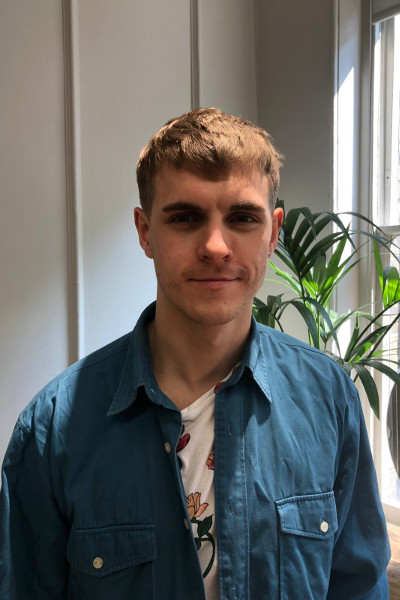
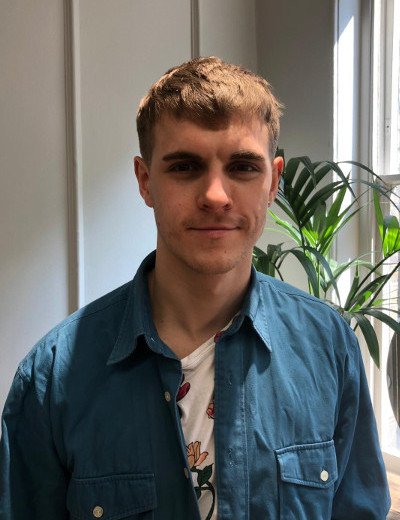
Added slider images and profile pics, and added ability to click-through the latter

diff --git a/index.html b/index.html
@@ -54,14 +54,20 @@
         <button class="fas fa-arrow-alt-circle-left slider__button slider__button--left"></button>
         <ul class="slider__list">
           <li class="slider__list-item">
-            <img src="img/img1.jpg" alt="At Land's End" class="slider__img slider__img--active">
+            <img src="img/img1.jpg" title="On a bench at Land's End" alt="On a bench at Land's End" class="slider__img slider__img--active">
           </li>
           <li class="slider__list-item">
-            <img hidden src="img/img2.jpg" alt="Meeting folks at the Centre for Environmental Concerns in Manila" class="slider__img">
+            <img hidden src="img/img2.jpg" title="Meeting folks at the Centre for Environmental Concerns in Manila" alt="Meeting folks at the Centre for Environmental Concerns in Manila" class="slider__img">
           </li>
           <li class="slider__list-item">
-            <img hidden src="img/img3.jpg" alt="By the canal in Venice" class="slider__img">
+            <img hidden src="img/img3.jpg" title="On a boat with my partner" alt="On a boat with my partner" class="slider__img">
           </li>
+					<li class="slider__list-item">
+						<img hidden src="img/img4.jpg" title="Mustonia, final fortress of the 90s anti-roads movement in Leyton" alt="Mustonia, final fortress of the 90s anti-roads movement in Leyton" class="slider__img">
+					</li>
+					<li class="slider__list-item">
+						<img hidden src="img/img5.jpg" title="Up Primrose Hill after taking the roads with Critical Mass" alt="Up Primrose Hill after taking the roads with Critical Mass" class="slider__img">
+					</li>
         </ul>
         <button class="fas fa-arrow-alt-circle-right slider__button slider__button--right"></button>
       </div>
@@ -69,6 +75,8 @@
         <button class="slider__nav-btn slider__nav-btn--active"></button>
         <button class="slider__nav-btn"></button>
         <button class="slider__nav-btn"></button>
+				<button class="slider__nav-btn"></button>
+				<button class="slider__nav-btn"></button>
       </div>
     </div>
 
@@ -84,21 +92,22 @@
 					<li>I like to read speculative sci-fi, play the drums, go to dance parties and tinker with tech</li>
 					<li>I've been involved in left wing political organising for many years and believe <em>another world is possible</em></li>
 				</ol>
-				<p class="main__para">So that's a quick rundown. If you'd like to know more about what I do with my time, just click a button!</p>
+				<p class="main__para">So that's a quick rundown. If you'd like to know more about what I've been up to recently, just click a button!</p>
 				<p class="main__para">Or, skip straight to the next section to <a class="link" href="#motivation">find out why I'm applying</a>.</p>
 				<div class="main__button-box">
 					<button class="main__button">Infosecurity Work</button>
 					<button class="main__button">Organising</button>
-					<button class="main__button">Fast Forward</button>
+					<button class="main__button">Build Camp</button>
 					<button class="main__button">Legal Support</button>
 					<button class="main__button">Climbing</button>
 				</div>
 			</div>
 			<div class="main__img-box">
-				<img src="img/profile2.jpg" alt="My face" class="main__img"> <!-- this img is the second column of the CSS grid -->
+				<img src="img/profile1.jpg" title="my face" alt="my face" class="main__img"> <!-- this img is the second column of the CSS grid -->
 			</div>
 		</main>
 
+		<!-- why I want to do the Founders &amp Coders course -->
 		<article id="motivation" class="article">
 			<h2 class="article__heading">My motivation for applying to Founders & Coders</h2>
 			<p class="article__para"> I want to work with Founders because... </p>
@@ -111,29 +120,20 @@
 		</article>
 
 		<article class="article">
-			<h2 class="article__heading">Infosecurity and data privacy</h2>
+			<h2 class="article__heading">Infosecurity Work</h2>
 			<h3 class="article__heading">Festival workshops</h3>
 			<h3 class="article__heading">The Glass Room</h3>
 		</article>
 
 		<article class="article">
-			<h2 class="article__heading">Union organising</h2>
+			<h2 class="article__heading">Organising</h2>
 			<h3 class="article__heading">IWW and the Castle</h3>
-			<h3 class="article__heading">London Renters' Union</h3>
-		</article>
-
-		<article class="article">
-			<h2 class="article__heading">Environmental activism</h2>
 			<h3 class="article__heading">Fossil Free campaigning, divestment and People & Planet</h3>
 			<h3 class="article__heading">Fuel Poverty Action</h3>
 		</article>
 
 		<article class="article">
 			<h2 class="article__heading">Climbing</h2>
-		</article>
-
-		<article class="article">
-			<h2 class="article__heading">Drumming</h2>
 		</article>
 
 		<article class="article" id="projects">

diff --git a/style.css b/style.css
@@ -86,7 +86,7 @@
 
   .main {
     display: grid; /* using grid to separate text from image */
-    grid-template-columns: 4fr 1fr;
+    grid-template-columns: 3fr 1fr;
     grid-template-areas: "text image";
     grid-column-gap: 5em;
     margin: 5% 2em 1em; /* main should be outside any landscape screen on page load */
@@ -119,6 +119,7 @@
   }
 
   .main__img-box {
+    position: relative;
     grid-area: "image";
     display: flex;
     flex: column nowrap;
@@ -128,7 +129,8 @@
 
   .main__img {
     height: 100%;
-    border-radius: 10%;
+    max-width: 100%;
+    border-radius: 5%;
     object-fit: cover;
   }
 
@@ -153,10 +155,6 @@
   }
 
   .article {
-    display: grid;
-    grid-template-columns: 1fr 3fr;
-    grid-template-rows: repeat(auto-fill,auto);
-    grid-column-gap: 5em;
     margin: 2em 2em; /* main should be outside any landscape screen on page load */
     padding: 1em 2em;
     border: 1px solid black;
@@ -176,7 +174,7 @@
   }
 
   .footer-box {
-    margin-top: 10em;
+    margin-top: 8em;
     position: relative;
   }
 
@@ -186,16 +184,17 @@
     flex: row nowrap;
     justify-content: center;
     align-items: center;
-    background-color: rgb(0,0,0,0.25);
-    padding: 10px;
+    background-color: rgb(0,0,0,0.3);
+    padding: 5px 0;
     height: 50px;
-    width: 100%;
     bottom: 0;
-
+    left: -10px;
+    right: -10px;
   }
 
   .footer__para {
     font-size: 1.5em;
+    font-style: bold;
     font-family: 'Nova Mono', Courier, monospace;
     padding: 0 2em;
   }

diff --git a/script.js b/script.js
@@ -88,9 +88,35 @@ const magicHat = function() {
   trip++;
 }
 
-// need a JS fix to account for fixed header by offsetting HTML anchors
+// need a JS fix to account for fixed header by offsetting HTML anchors (unfinished)
 // line of attack: for any nav link clicked, use window.scrollBy to move up page
 /* const offset = function() {
   let links = [...document.getElementsByClassName('nav__link')];
   window.scrollBy(0,-50); // scrolls 60px (height of nav bar + 10) up screen
 } */
+
+// show a different profile photo on click
+const profileFlick = function(event) {
+  let currentImage = document.querySelector('.main__img');
+  if (event.target == currentImage) {
+    let source = currentImage.src.split(""); // return array of characters in src
+    let n = source.length;
+    let i = parseInt(source[n-5]); // count back through .jpg to get i, then convert to integer
+    if (i == 5) { // loop back round
+      currentImage.setAttribute('src','img/profile1.jpg')
+    } else {
+      let k = i + 1;
+      let newSource = 'img/profile' + k + '.jpg';
+      currentImage.setAttribute('src',newSource);
+    }
+  }
+}
+// flip photo on mouseover (buggy)
+/* const profileFlip = function() {
+    let currentImage = document.querySelector('.main__img');
+    if (event.target == currentImage) {
+      currentImage.style.transform = "rotate(0.5turn)";
+  }
+} */
+addEventListener('click',profileFlick);
+// addEventListener('mouseover',profileFlip);
